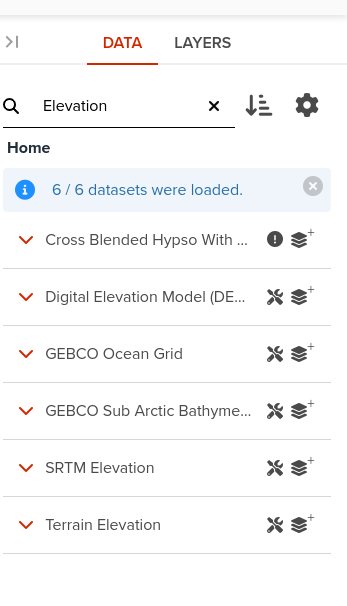
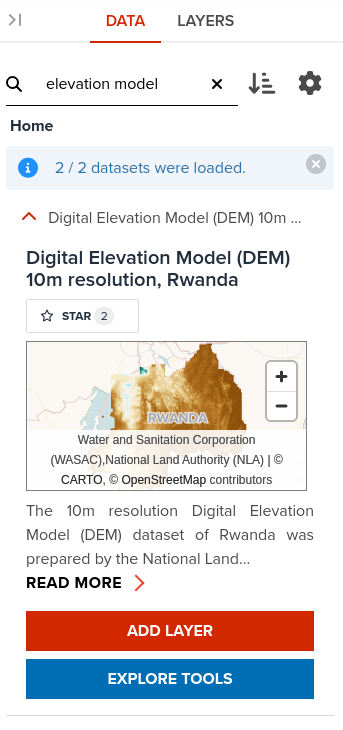
add uses slides

diff --git a/documentation/docs/analytics/case_studies.md b/documentation/docs/analytics/case_studies.md
@@ -2,15 +2,42 @@
 
 # Geospatial analytics for crisis assessment
 
-Recent advances in state-of-the-art sensing technology have produced an explosion of data generated by Earth observation missions. Using the criterion of spatial resolution (smallest size an object or detail can be represented in an image), satellite images can be categorized in **large, intermediate, and high or extremely high-resolution**. Out of these three types only the very high-resolution satellite imagery is the best suited to perform context and situational assessments due to its ability to capture objects as small as half a square meter. The price paid for the increased details are the inflated costs associated with producing, storing, and processing it. A second important aspect is that high resolution imagery is usually covering much smaller areas and thus it might be difficult to get a coverage for any given specific area at a particular time instance.
+---
 
-An alternative data source suitable for building situational awareness is nighttime lights imagery with resolution in hundreds of meters (500-1000). By comparing the nighttime lights at two consecutive time instances over a specific area, insights related to change in the intensity of human activities/presence can be derived with high confidence. A downside is that again, this imagery might not be available at a particular time instance or specific geographic areas. The solution in this case is to use monthly, seasonal, or even yearly mosaics (composition of several satellite images) if available.
+Recent advances in state-of-the-art sensing technology have produced an explosion of data generated by Earth observation missions. <hidden>Using the criterion of spatial resolution (smallest size an object or detail can be represented in an image), satellite images can be categorized in **large, intermediate, and high or extremely high-resolution**. Out of these three types only the very high-resolution satellite imagery is the best suited to perform context and situational assessments due to its ability to capture objects as small as half a square meter. The price paid for the increased details are the inflated costs associated with producing, storing, and processing it. A second important aspect is that high resolution imagery is usually covering much smaller areas and thus it might be difficult to get a coverage for any given specific area at a particular time instance. </hidden>
+
+![Spatial resolution of gridded datasets](../assets/analytics/spatial_resolution.png)
+
+---
+
+#### Nightime lights data
+
+The main [source](https://eogdata.mines.edu/products/vnl/#daily) of [nightime lights](https://eogdata.mines.edu/nighttime_light/nightly/) imagery is the Payne Institute for Public Policy's Earth Observation Group(COLEOG) part of Colorado School of Mines, USA.<hidden> The Suomi NPP VIIRS DNB imagery collect reflectance in 0.5-0.9 µm bandwidth and features a spatial resolution of 375m at the subsatellite point. The VIIRS DNB scans the Earth globe twice a day and the imagery is processed by the COLEOG into multiple products, respectively, nightly/daily, monthly and yearly mosaics. The mosaics cover the globe between latitudes of 75N and 65S using later on top logic in overlapping areas. At the same time COLEOG produces a cloud mask that can be used to filter out pixels that are covered by clouds.</hidden>
+
+---
+
+UNDP GeoHub's team has developed a [data processing pipeline](https://github.com/UNDP-Data/geo-undpstac-pipeline) to convert the COLEOG data to Cloud Optimized Geotiff format and host it as a static Spatio Temporal Asset Catalog in Azure. As a result the converted data is discoverable, standardized and can be easily consumed by various clients.
+
+![STAC catalog](../assets/analytics/stac_catalog.png)
+<!-- .element style="height: 300px" -->
+
+---
+
+By comparing the nighttime lights at two consecutive time instances over a specific area, insights related to change in the intensity of human activities/presence can be derived with high confidence. <hidden> A downside is that again, this imagery might not be available at a particular time instance or specific geographic areas. The solution in this case is to use monthly, seasonal, or even yearly mosaics (composition of several satellite images) if available.</hidden>
 
 ![Nighttime lights image mosaic covering East Africa](../assets/analytics/ntl_east_africa.png)
+<!-- .element style="height: 300px" -->
 
-## Rapid change assessment tool.
+---
 
-GeoHub features the **Rapid change assessment tool** specially designed for the purpose of quick change assesment on the ground using nighttime lighs imagery. Put in a simplistic manner, the nighttime lights based change detection algorithm entails evaluating the sign and magnitude of the difference between the reflectances at two distinct calendar dates for any given location/pixel in the area covered by the imagery. An important aspect is to consider also the cloudiness of the imagery because clouds can affect the precision of computations in a negative way.
+## Rapid change assessment algorithm
+
+GeoHub features the **Rapid change assessment tool** specially designed for the purpose of quick change assesment on the ground using nighttime lighs imagery. <hidden>Put in a simplistic manner, the nighttime lights based change detection algorithm entails evaluating the sign and magnitude of the difference between the reflectances at two distinct calendar dates for any given location/pixel in the area covered by the imagery. An important aspect is to consider also the cloudiness of the imagery because clouds can affect the precision of computations in a negative way.
+
+
+</hidden>
+
+<hidden>
 
 #### Derna use case
 
@@ -18,52 +45,75 @@ To illustrate the potential of nighttime lights data we are going to use a real 
 
 ![Derna, Libya](../assets/analytics/derna.png)
 
+</hidden>
+
+--
+
 ![Identifying changes in human activity using nighttime lights data. This example shows the input data and the result of the RCA algorithm aplied to the floods that accured in Derna, Libya in September 2023](../assets/analytics/ntl_algo_matplotlib.png)
 
-#### Data
 
-The main [source](https://eogdata.mines.edu/products/vnl/#daily) of [nightime lights](https://eogdata.mines.edu/nighttime_light/nightly/) imagery is the Payne Institute for Public Policy's Earth Observation Group(COLEOG) part of Colorado School of Mines, USA. The Suomi NPP VIIRS DNB imagery collect reflectance in 0.5-0.9 µm bandwidth and features a spatial resolution of 375m at the subsatellite point. The VIIRS DNB scans the Earth globe twice a day and the imagery is processed by the COLEOG into multiple products, respectively, nightly/daily, monthly and yearly mosaics. The mosaics cover the globe between latitudes of 75N and 65S using later on top logic in overlapping areas. At the same time COLEOG produces a cloud mask that can be used to filter out pixels that are covered by clouds.
+---
 
-UNDP GeoHub's team has developed a [data processing pipeline](https://github.com/UNDP-Data/geo-undpstac-pipeline) to convert the COLEOG data to Cloud Optimized Geotiff format and host it as a static Spatio Temporal Asset Catalog in Azure. as a result the converted data is discoverable, standardized and can be easily consumed by various clients.
 
 #### RCA tool in Geohub
 
-The change assessments are performed through a [custom algorithm](https://github.com/UNDP-Data/geo-cogserver/blob/main/src/cogserver/algorithms/rca.py)
-and GeoHub has been enhanced with UI components tahat allow users to run the tool and conduct analytics seamlesly in the all area covered by nighttime lighs mosaics.
+GeoHub has been enhanced with UI components tahat allow users to run the tool and conduct analytics seamlesly in the all area covered by nighttime lighs mosaics.
 
-The tool can be accessed using folowing steps:
+---
 
-1.  Load The GeoHub's tool page and click on RCA tile
+<hidden>The tool can be accessed using folowing steps:</hidden>
 
-    ![Load The GeoHub's tool page and click on RCA tile](../assets/analytics/geohub_tools.png)
 
-2.  Select **Nightly nighttime lights mosaic** dataset
+### 1. Load The GeoHub's tool page and click on RCA tile
 
-    ![Select Nightly nighttime lights mosaic dataset ](../assets/analytics/nighttime_lights_dataset.png)
+![Load The GeoHub's tool page and click on RCA tile](../assets/analytics/geohub_tools.png)
 
-3.  Select RCA tool by clicking on PREVIEW -> TOOLS
+--
 
-    ![Select RCA tool by clicking on PREVIEW -> TOOLS](../assets/analytics/rca_tool_select.png)
+### 2. Select **Nightly nighttime lights mosaic** dataset
 
-4.  Fill in the start (09092023) and end(13092023) dates and press **Add to Map** button to load the layer
+![Select Nightly nighttime lights mosaic dataset ](../assets/analytics/nighttime_lights_dataset.png)
 
-    ![Select dates and add data to map](../assets/analytics/rca_input.png)
+--
 
-5.  Type **Derna** in the geolocator input, pres enter and select **Derna Libya** entry
+### 3. Select RCA tool by clicking on PREVIEW -> TOOLS
 
-    ![The difference of RCA tool for Lybia floods](../assets/analytics/rca_locate_derna.png)
+![Select RCA tool by clicking on PREVIEW -> TOOLS](../assets/analytics/rca_tool_select.png)
 
-    ![The Lybia floods dataset shows the overall level of destruction](../assets/analytics/derna_destruction.png)
+--
 
-    The original dataset of lybia floods is available from [here](https://www.maxar.com/open-data/libya-floods-0923)
+### 4.  Fill in the start (09092023) and end(13092023) dates and press **Add to Map** button to load the layer
+
+![Select dates and add data to map](../assets/analytics/rca_input.png)
+
+--
+
+### 5. Type **Derna** in the geolocator input, pres enter and select **Derna Libya** entry
+
+![The difference of RCA tool for Lybia floods](../assets/analytics/rca_locate_derna.png)
+<!-- .element style="height: 450px" -->
+
+--
+
+![The Lybia floods dataset shows the overall level of destruction](../assets/analytics/derna_destruction.png)
+
+<hidden>The original dataset of lybia floods is available from [here](https://www.maxar.com/open-data/libya-floods-0923)</hidden>
+
+--
 
 By overlaying this data with the RCA global layer before applying 50% transparency to it, it is possible to observe the RCA has succesfully
 detected the affected areas.
 
 ![Zoomed area where the floods affected significantly](../assets/analytics/derna_destruction_overlay_zoom.png)
+<!-- .element style="height: 450px" -->
+
+---
 
 ![Demonstrating the ability of RCA tool to detect changes and variations in nighttime lights intensity as a proxy to identification of areas affected by disasters](../assets/analytics/derna_destruction_overlay.png)
 
+
+<hidden>
 !!! success
 
     This example showcases the efectivenes and viability of developing and applying  geospatial analytics to support the decision making processes.
+</hidden>

diff --git a/documentation/docs/analytics/raster_base_analysis.md b/documentation/docs/analytics/raster_base_analysis.md
@@ -1,34 +1,87 @@
 # Imagery based analytics
 
-GeoHub's backend is powered by [titiler](https://developmentseed.org/titiler/) a custom Cloud Optimized Geotiff([COG](https://www.cogeo.org/)) server that converts on the fly COGs to map tiles in graphic formats. Titiler features sophisticated mechanisms that can be employed to transform the input COG files on the server side. This forms the backbone of raster based analytics.
+---
+
+Raster analysis is the process of analyzing spatial information contained in grid datasets. Each cell in a grid contains a value or class, which could be related to soils, land cover, elevation, or another type of data.
+
+
+
+![Raster or gridded analysis](../assets/analytics/gridded_datasets.png) <!-- .element style="height: 200px" -->
+
+
+
+<hidden>
+GeoHub is powered by [titiler](https://developmentseed.org/titiler/) a custom Cloud Optimized Geotiff([COG](https://www.cogeo.org/)) server that converts on the fly COGs to map tiles in graphic formats. Titiler features sophisticated mechanisms that can be employed to transform the input COG files on the server side. This forms the backbone of raster based analytics.
 In practice, all these details are hidden under the concepts of [algorithms](https://developmentseed.org/titiler/advanced/Algorithms/) and
 [expressions](https://cogeotiff.github.io/rio-tiler/api/rio_tiler/expression/) through the UI/UX components.
+</hidden>
+
+
+
+---
 
 Much like dynamic vector layers, specific algorithms can be applied transparently to raster layers represented by individual COGs, MosaicJSON documents or Spatio Temporal Assets Catalogs(STAC) assets.
 
-We shall illustrate in the lines below how can one apply simple analytics to specific raster layers. We are going to create a hillshade layer
-from elevation data. [Hillshade or shaded relief](https://docs.qgis.org/3.34/en/docs/training_manual/rasters/terrain_analysis.html) shows the shape of the terrain in a realistic fashion by showing how the three-dimensional surface would be illuminated from a point light source.
+---
 
-1.  Open GeoHub and create a new map
+<hidden>
+We shall illustrate in the lines below how can one apply simple analytics to specific raster layers.</hidden>  We are going to create a hillshade layer
+from elevation data. <hidden>[Hillshade or shaded relief](https://docs.qgis.org/3.34/en/docs/training_manual/rasters/terrain_analysis.html) shows the shape of the terrain in a realistic fashion by showing how the three-dimensional surface would be illuminated from a point light source.
 
-    ![Open new map](../assets/analytics/open_map.png)
+</hidden>
 
-2.  Search elevation data and load the available algorithms by clicking on the tools icon
+![Hillshade visiualization after adjusting parameters](../assets/analytics/hillshade_params_changes.png)<!-- .element style="height: 200px" -->
 
-    ![Search elevation data](../assets/analytics/load_elevation.png)
+---
 
-3.  Select the hillshade algorithm
+### 1. Open GeoHub and create a new map
 
-    ![Select the hillshade algorithm](../assets/analytics/select_tools.png)
 
-    ![Load elevation data  with hillshade algorithm applied](../assets/analytics/loaded_hillshade.png)
+![Open new map](../assets/analytics/open_map.png)
 
-4.  Open layer Properties dialog
+--
 
-    ![Open layer Properties dialog](../assets/analytics/hilshade_layer_props.png)
+### 2. Search elevation 
 
-5.  Adjust hillshade Azimuth partameter to 45 and Angle Altitude to 0
+![Search elevation data by typing elevation model in DATA tab](../assets/analytics/load_elevation.png)
+<!-- .element style="height: 500px" -->
 
-    ![Adjust hillshade Azimuth partameter to 45](../assets/analytics/hillshade_params.png)
+--
 
-    ![Hillshade visiualization after adjusting parameters](../assets/analytics/hillshade_params_changes.png)
+
+### 3. Select the hillshade algorithm
+
+![Select the hillshade algorithm](../assets/analytics/select_tools.png)
+
+--
+
+![Load elevation data  with hillshade algorithm applied](../assets/analytics/loaded_hillshade.png)
+
+--
+
+### 4. Open layer Properties dialog
+
+
+![Open layer Properties dialog](../assets/analytics/hilshade_layer_props.png)
+<!-- .element style="height: 500px" -->
+
+--
+
+### 5. Adjust hillshade Azimuth partameter to 45 and Angle Altitude to 0
+
+
+![Adjust hillshade Azimuth partameter to 45](../assets/analytics/hillshade_params.png)
+<!-- .element style="height: 400px" -->
+
+--
+
+![Hillshade visiualization after adjusting parameters](../assets/analytics/hillshade_params_changes.png)
+
+---
+
+This example aimed to demonstrate how GeoHub employes and presents the concept of **raster based** analytics. The code idea
+is to:
+
+ - [x] create algorithms
+ - [x] tag targeted datasets with the algorithm name
+ - [x] execute and interact with the algorithm

diff --git a/documentation/docs/analytics/dynamic_vector.md b/documentation/docs/analytics/dynamic_vector.md
@@ -31,46 +31,57 @@ Risk indicators are a type of layer that is particulary well suited to be imleme
 
 ---
 
-<hidden>
+
 
 ### 1. Create a new  map
 
 ![Open GeoHub and create a new map](../assets/analytics/open_map.png)
 
+--
+
 ### 2. Load dynamic layer
 
 ![Find and load **Dynamic Subnational Heat Health Risk**](../assets/analytics/load_dynamic_layer.png)
+
+--
 
 ### 3. Open layer properties
 
 ![Open layer Properties](../assets/analytics/dyna_layer_props.png)
 
+--
+
 ### 4. Alter layer symbology
 
 ![Create a choropleth map by changing the visualization STYLE->Fill Color](../assets/analytics/dyna_layer_style.png)
 
+--
 
 ### 5. Open simulation parameteres
 
 ![Open and set the parameters of the layer by clicking on **Simulation**](../assets/analytics/dyn_heat_health_index_params.png)
 
+--
 
 ### 6. Adjust simulation parameteres
 
-</hidden>
-
 ![Adjust one or more parameters and observe the changes in colors or various administrative units](../assets/analytics/dyna_layer_simulation.png)
+<!-- .element style="border: 1px solid black;  height: 500px" -->
+
 
 <hidden>
-
 
 !!! tip
 
     By moving the sliders allocated to parameters you are passing those values to the server side where the new values of the risk are recomputed in real time. Note that in the picture above the *Human Development Index* and *Vegetation Health Index* parameters have been changed as they are maked with blue color.
 
+</hidden>
 
+--
 
 ### 7. Label the layer
+
+<hidden>
 
 !!! tip inline end
 
@@ -78,9 +89,11 @@ Risk indicators are a type of layer that is particulary well suited to be imleme
     In Layer Properties go to LABEL tab and select the attribute **Heat Health Risk Index**. Optionally increase the number of
     digits or precision by clicking on **Decimal position**
 
+</hidden>
+
 ![Label tab for dynamic vector layer](../assets/analytics/dyna_layer_labels.png)
 
-</hidden>
+
 
 ---
 

diff --git a/documentation/docs/analytics/index.md b/documentation/docs/analytics/index.md
@@ -7,11 +7,8 @@ The concept of _geospatial analytics_ is central to Geographic Information Syste
 
 ---
 
-![Map by Dr. John Snow of London, showing clusters of cholera cases in the 1854 Broad Street cholera outbreak. This was one of the first uses of map-based spatial analysis. source:  Wikipedia](../assets/analytics/Snow-cholera-map.jpg){
-  width: 70%;
-  border: none;
-  background: none;
-}
+![Map by Dr. John Snow of London, showing clusters of cholera cases in the 1854 Broad Street cholera outbreak. This was one of the first uses of map-based spatial analysis. source:  Wikipedia](../assets/analytics/Snow-cholera-map.jpg)
+<!-- .element style="border: 1px solid black;  height: 500px" -->
 
 ---
 
@@ -37,7 +34,7 @@ The **first category** consists of analytics  performed exclusively on vector la
  The third category is represented by **mixed raster-vector** analytics where computational logic is applied to a raster and a vector layer. <hidden>These types of operations are complex and require supplementary operations like converting the vector layer to raster format or reprojection to a comon coordinate system.</hidden>
 
 
-![Zonal statistics,  mixed raster-vector analytics](../assets/analytics/zonal_stats.gif)
+![Zonal statistics,  mixed raster-vector analytics](../assets/analytics/zonal_stats.gif)<!-- .element style="border: 0px solid black;  height: 400px" -->
 
 ---
 
